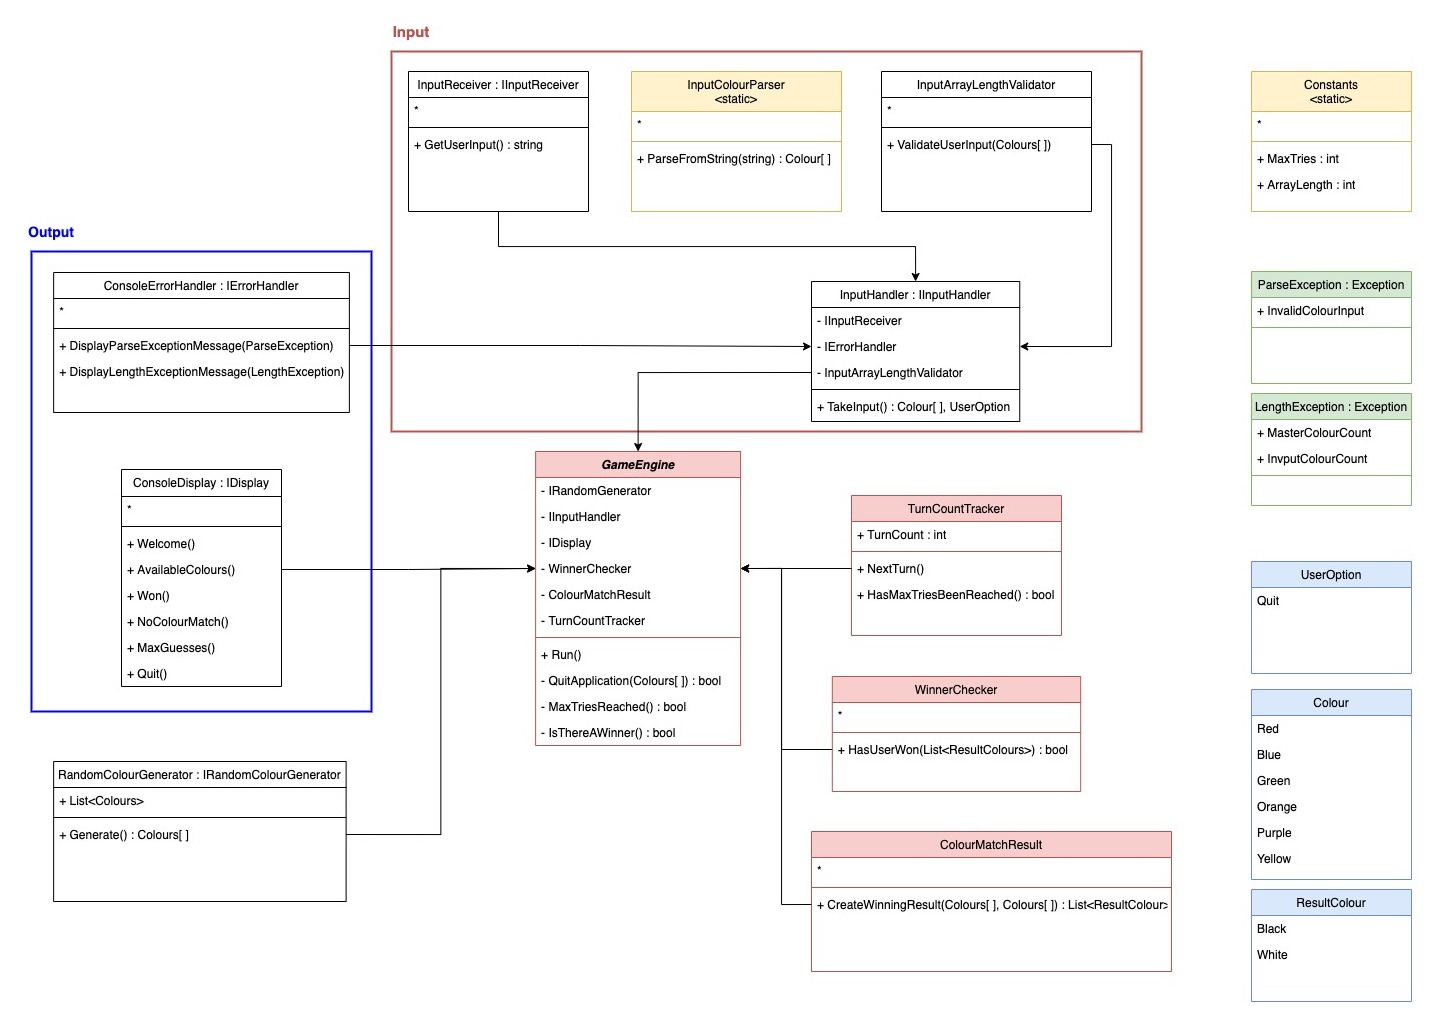
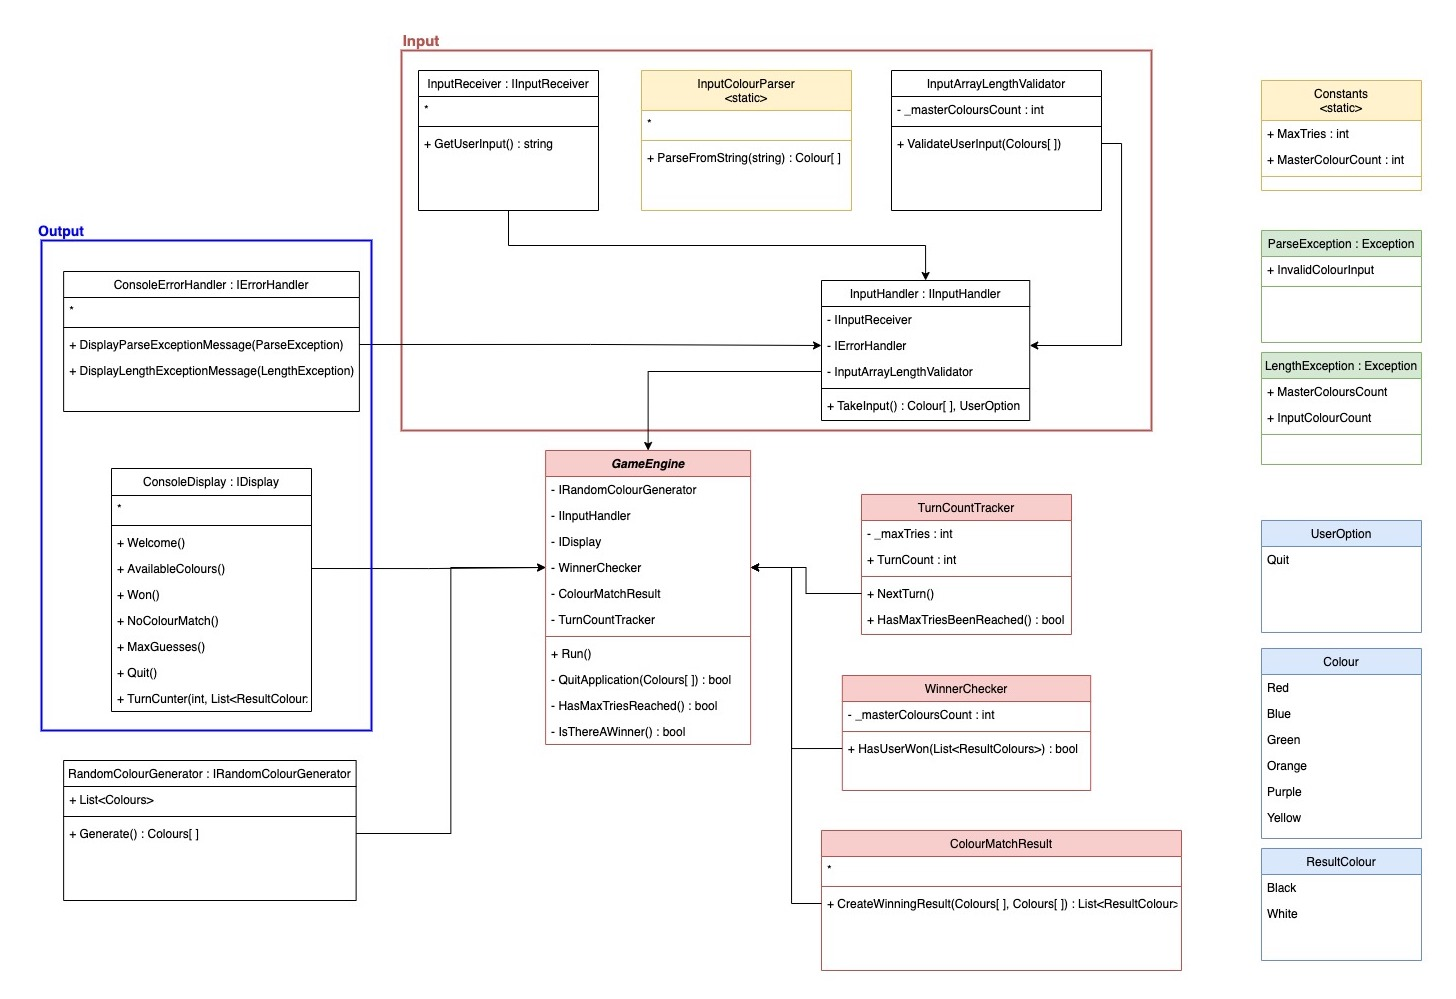
updated class diagram and minor refactors

diff --git a/MastermindTests/ColourMatchResultTests.cs b/MastermindTests/ColourMatchResultTests.cs
@@ -18,7 +18,6 @@ namespace MastermindTests
             var colourMatchResult = new ColourMatchResult();
             var userGuesses = new[] 
                 { Colour.Blue, Colour.Green, Colour.Yellow, Colour.Blue };
-            colourMatchResult.CreateResult(_masterSelectedColours, userGuesses);
 
             var result = colourMatchResult.CreateResult(_masterSelectedColours, userGuesses);
                 
@@ -32,7 +31,6 @@ namespace MastermindTests
             var colourMatchResult = new ColourMatchResult();
             var userGuesses = new[] 
                 { Colour.Blue, Colour.Green, Colour.Red, Colour.Orange };
-            colourMatchResult.CreateResult(_masterSelectedColours, userGuesses);
             
             var result = colourMatchResult.CreateResult(_masterSelectedColours, userGuesses);
 
@@ -46,7 +44,6 @@ namespace MastermindTests
             var colourMatchResult = new ColourMatchResult();
             var userGuesses = new[] 
                 { Colour.Red, Colour.Blue, Colour.Green, Colour.Orange };
-            colourMatchResult.CreateResult(_masterSelectedColours, userGuesses);
 
             var result = colourMatchResult.CreateResult(_masterSelectedColours, userGuesses);
             
@@ -55,12 +52,11 @@ namespace MastermindTests
         }
      
         [Fact]
-        public void GivenDuplicateColoursWithIncorrectIndex_ShouldReturnOneWhiteAndOneBlackValues()
+        public void GivenDuplicateColoursWithIncorrectIndex_ShouldReturnOneWhiteAndTwoBlackValues()
         {
             var colourMatchResult = new ColourMatchResult();
             var userGuesses = new[] 
                 { Colour.Blue, Colour.Blue, Colour.Green, Colour.Blue };
-            colourMatchResult.CreateResult(_masterSelectedColours, userGuesses);
 
             var result = colourMatchResult.CreateResult(_masterSelectedColours, userGuesses);
             var blackCount = result.Count(c => c == ResultColour.Black);

diff --git a/Mastermind/ColourMatchResult.cs b/Mastermind/ColourMatchResult.cs
@@ -13,7 +13,6 @@ namespace Mastermind
             var guessesList = guesses.ToList();
             var masterColoursList = masterColours.ToList();
 
-            // black
             for (var i = guessesList.Count - 1; i >= 0; i--)
             {
                 if (guessesList[i] == masterColoursList[i])
@@ -24,7 +23,6 @@ namespace Mastermind
                 }
             }
 
-            // white
             for (var i = guessesList.Count - 1; i >= 0; i--)
             {
                 if (masterColoursList.Contains(guessesList[i]))
@@ -32,26 +30,12 @@ namespace Mastermind
                     result.Add(ResultColour.White);
                 }
             }
-            
+
+            var rng = new Random();
+            var shuffledResult = result.OrderBy(a => rng.Next()).ToList();
             //return result.OrderBy(x => Guid.NewGuid()).ToList();
-            Shuffle(result);
-            return result;
-        }
 
-        // look into using with OrderBy - rng
-        private void Shuffle(List<ResultColour> matchResult)
-        {
-            var random = new Random();
-            var num = matchResult.Count;
-
-            while (num > 1)
-            {
-                num--;
-                var randomNum = random.Next(num + 1);
-                var value = matchResult[randomNum];
-                matchResult[randomNum] = matchResult[num];
-                matchResult[num] = value;
-            }
+            return shuffledResult;
         }
     }
 }

diff --git a/Mastermind/GameEngine.cs b/Mastermind/GameEngine.cs
@@ -27,7 +27,7 @@ namespace Mastermind
         public void Run()
         {
             _display.Welcome();
-            _display.DisplayAvailableColours();
+            _display.AvailableColours();
             var hasAWinner = false;
             
             var masterColours = _randomColourGenerator.Generate();
@@ -83,7 +83,7 @@ namespace Mastermind
         private bool IsThereAWinner(List<ResultColour> matchResult)
         {
             if (!_winnerChecker.HasUserWon(matchResult)) return false;
-            _display.Win();
+            _display.Won();
             return true;
         }
     }

diff --git a/Mastermind/Exceptions/LengthException.cs b/Mastermind/Exceptions/LengthException.cs
@@ -4,12 +4,12 @@ namespace Mastermind.Exceptions
 {
     public class LengthException : Exception
     {
-        public int MasterColourCount { get; }
+        public int MasterColoursCount { get; }
         public int InputColourCount { get; }
 
-        public LengthException(int masterColourCount, int inputColourCount)
+        public LengthException(int masterColoursCount, int inputColourCount)
         {
-            MasterColourCount = masterColourCount;
+            MasterColoursCount = masterColoursCount;
             InputColourCount = inputColourCount;
         }
     }

diff --git a/Mastermind/ConsoleDisplay.cs b/Mastermind/ConsoleDisplay.cs
@@ -15,7 +15,7 @@ namespace Mastermind
                 FiggleFonts.Bolger.Render("Mastermind"));
         }
 
-        public void DisplayAvailableColours()
+        public void AvailableColours()
         {
             Console.WriteLine("🧠 Here are your available colours: 🧠");
             
@@ -50,7 +50,7 @@ namespace Mastermind
             Console.ResetColor();
         }
 
-        public void Win()
+        public void Won()
         {
             Console.WriteLine("\nAll your guesses match! You've won!\n");
         }

diff --git a/Mastermind/ConsoleErrorHandler.cs b/Mastermind/ConsoleErrorHandler.cs
@@ -14,7 +14,7 @@ namespace Mastermind
 
         public void DisplayLengthExceptionMessage(LengthException e)
         {
-            Console.WriteLine($"\nError: You must pass {e.MasterColourCount} colours. You have entered {e.InputColourCount}");
+            Console.WriteLine($"\nError: You must pass {e.MasterColoursCount} colours. You have entered {e.InputColourCount}");
         }
     }
 }

diff --git a/Mastermind/Interfaces/IDisplay.cs b/Mastermind/Interfaces/IDisplay.cs
@@ -6,8 +6,8 @@ namespace Mastermind.Interfaces
     public interface IDisplay
     {
         public void Welcome();
-        public void DisplayAvailableColours();
-        public void Win();
+        public void AvailableColours();
+        public void Won();
         public void NoColourMatch();
         public void MaxGuesses();
         public void Quit();

diff --git a/MastermindTests/GameEngineTests.cs b/MastermindTests/GameEngineTests.cs
@@ -24,7 +24,7 @@ namespace MastermindTests
             
             mockRandomGen.Verify(rng => rng.Generate(), Times.Once);
             mockInputHandler.Verify(ge => ge.TakeInput(), Times.Once);
-            mockDisplay.Verify(w => w.Win(), Times.Once);
+            mockDisplay.Verify(w => w.Won(), Times.Once);
         }
         
         [Fact]
